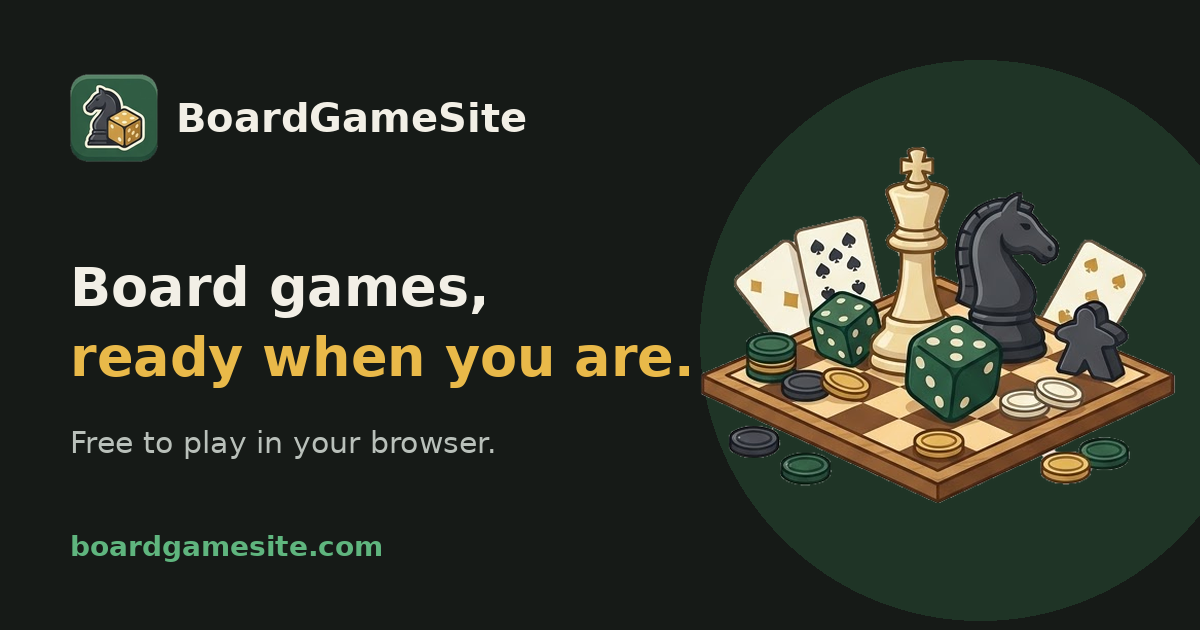
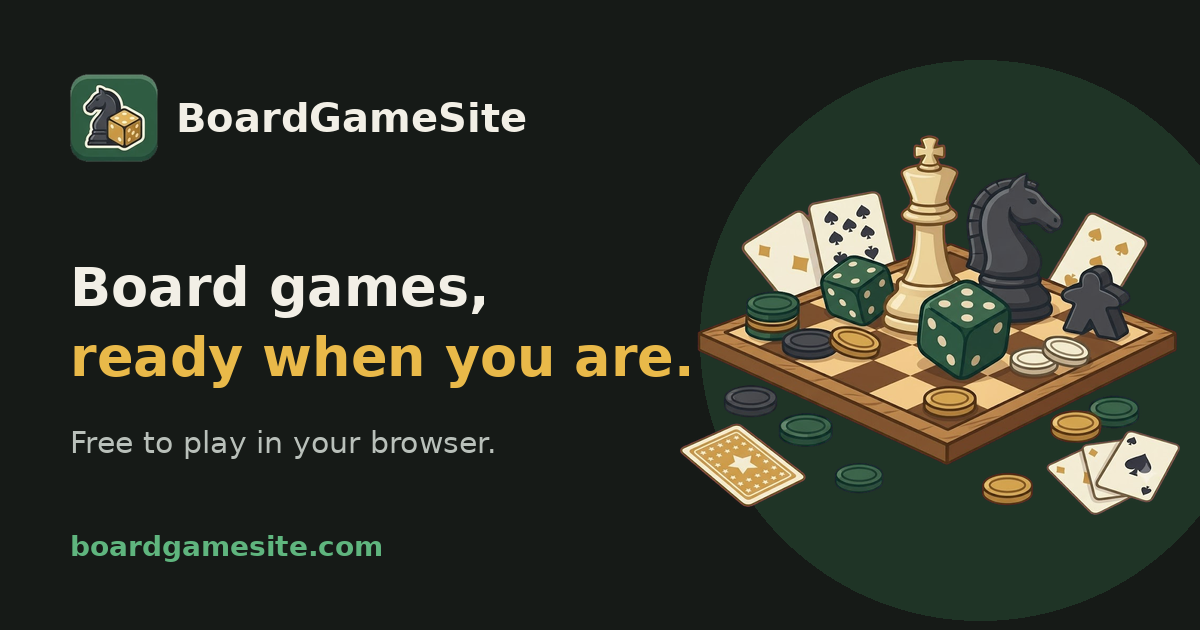
New high-resolution hero art with clean edges
Claude-Session: https://claude.ai/code/session_014pWSsy6toDJ3xXdwgHk91q

Changed region(s): [[0.555, 0.2111, 0.9867, 0.8143]]

diff --git a/public/index.html b/public/index.html
@@ -78,7 +78,7 @@
     </div>
   </div>
   <div class="hero-art">
-    <img src="/assets/img/hero.webp" alt="Chess pieces, dice, playing cards and tokens on a game board" width="463" height="348" fetchpriority="high">
+    <img src="/assets/img/hero.webp" alt="Chess pieces, dice, playing cards and tokens on a game board" width="946" height="720" fetchpriority="high">
   </div>
 </section>
 

diff --git a/src/pages/index.html b/src/pages/index.html
@@ -17,7 +17,7 @@
     </div>
   </div>
   <div class="hero-art">
-    <img src="/assets/img/hero.webp" alt="Chess pieces, dice, playing cards and tokens on a game board" width="463" height="348" fetchpriority="high">
+    <img src="/assets/img/hero.webp" alt="Chess pieces, dice, playing cards and tokens on a game board" width="946" height="720" fetchpriority="high">
   </div>
 </section>
 
